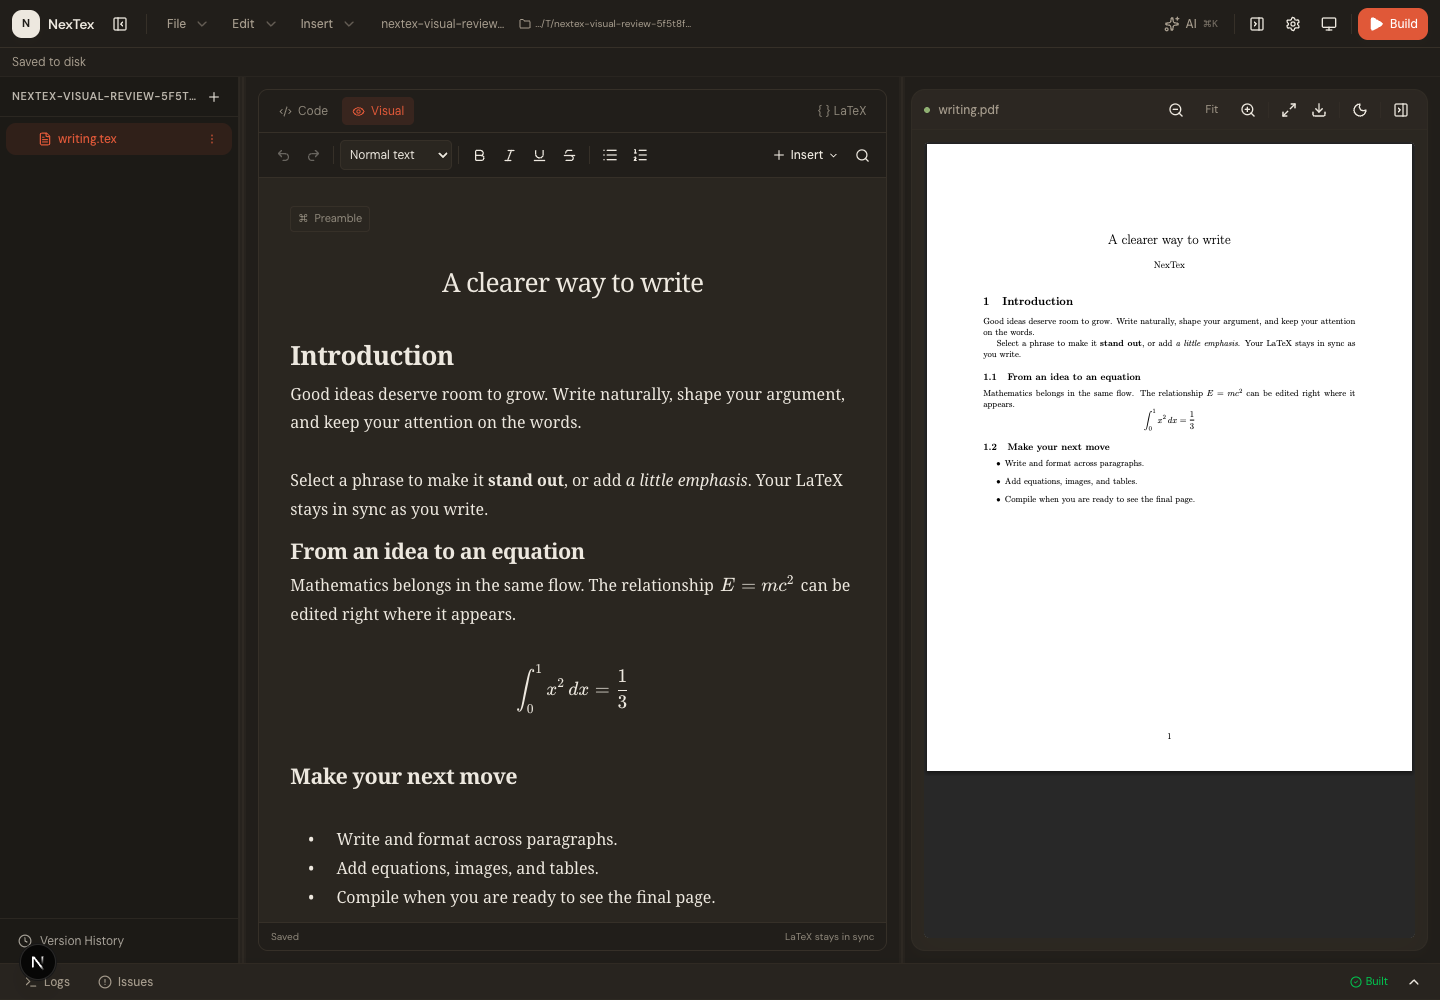
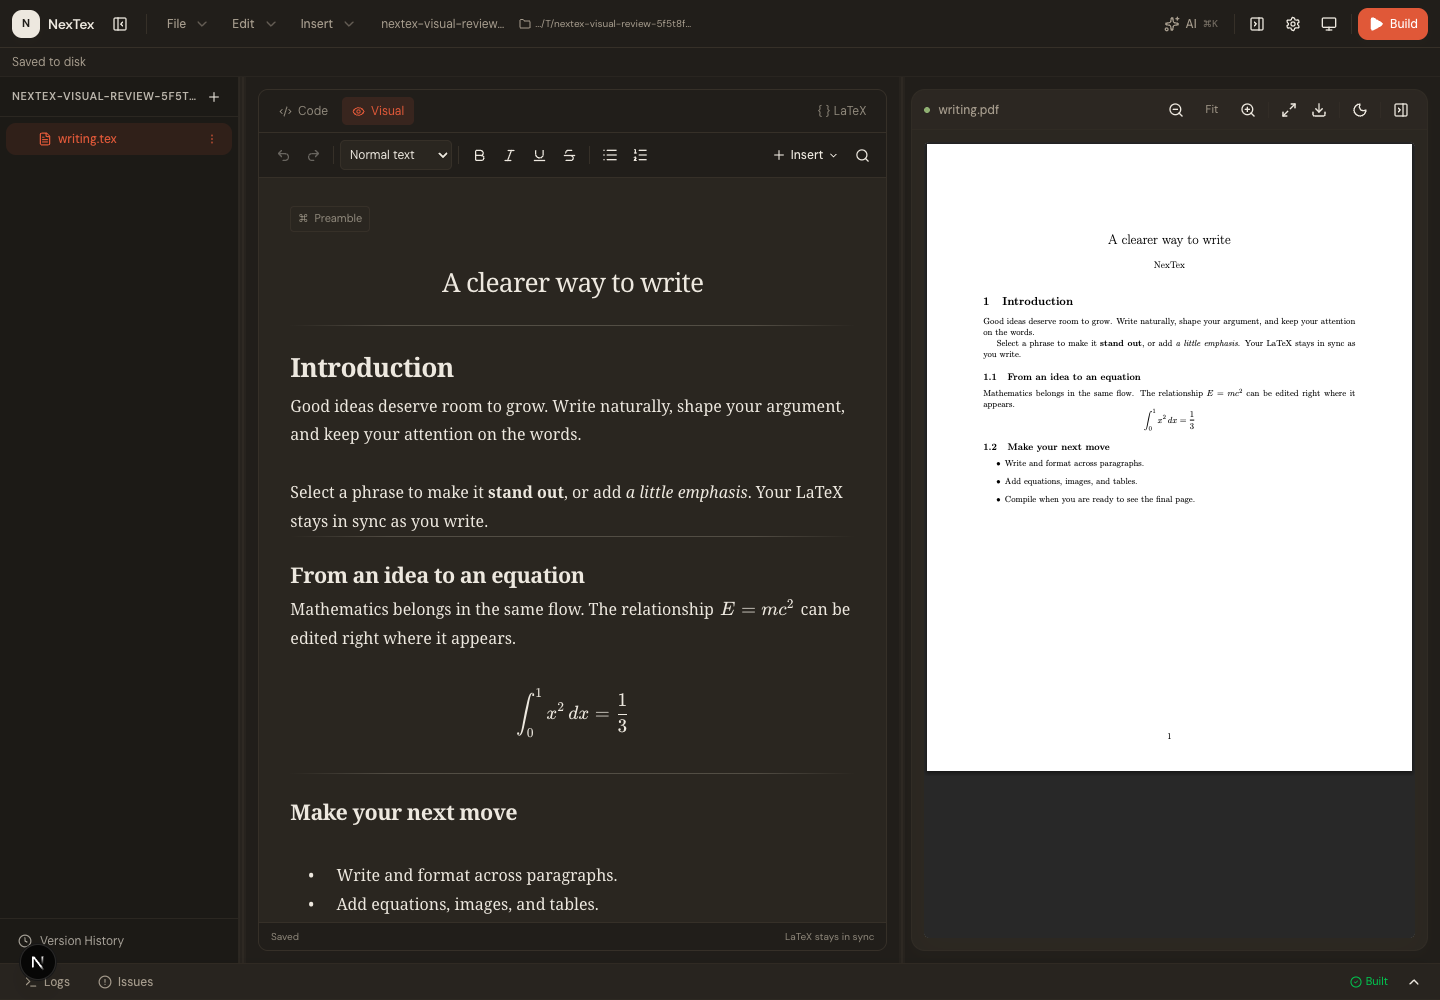
style: separate visual editor sections with faded dividers

Changed region(s): [[0.1875, 0.341, 0.5938, 0.651], [0.1875, 0.775, 0.4375, 0.93], [0.3438, 0.682, 0.4375, 0.713]]

diff --git a/frontend/app/globals.css b/frontend/app/globals.css
@@ -373,6 +373,10 @@
 .visual-source-host .cm-scroller { overflow:auto; line-height:1.8; font-family:inherit; }
 .visual-source-host .cm-content { padding:24px clamp(20px,5%,70px) 100px; caret-color:var(--visual-editor-text); }
 .visual-source-host .cm-line { padding:0; }
+.visual-source-host .cm-line:has(.visual-heading) {
+  padding-top:12px;
+  background:linear-gradient(90deg,transparent,color-mix(in srgb,var(--visual-editor-text-dim) 40%,transparent) 18%,color-mix(in srgb,var(--visual-editor-text-dim) 40%,transparent) 82%,transparent) left top / 100% 1px no-repeat;
+}
 .visual-source-host .cm-selectionBackground { background:var(--visual-editor-tool-active) !important; }
 .visual-source-host .cm-cursor { border-left-color:var(--visual-editor-text); }
 .visual-source-host .cm-panels { background:var(--visual-editor-toolbar); color:var(--visual-editor-text); border-color:var(--visual-editor-toolbar-border); font:12px var(--font-sans); }
